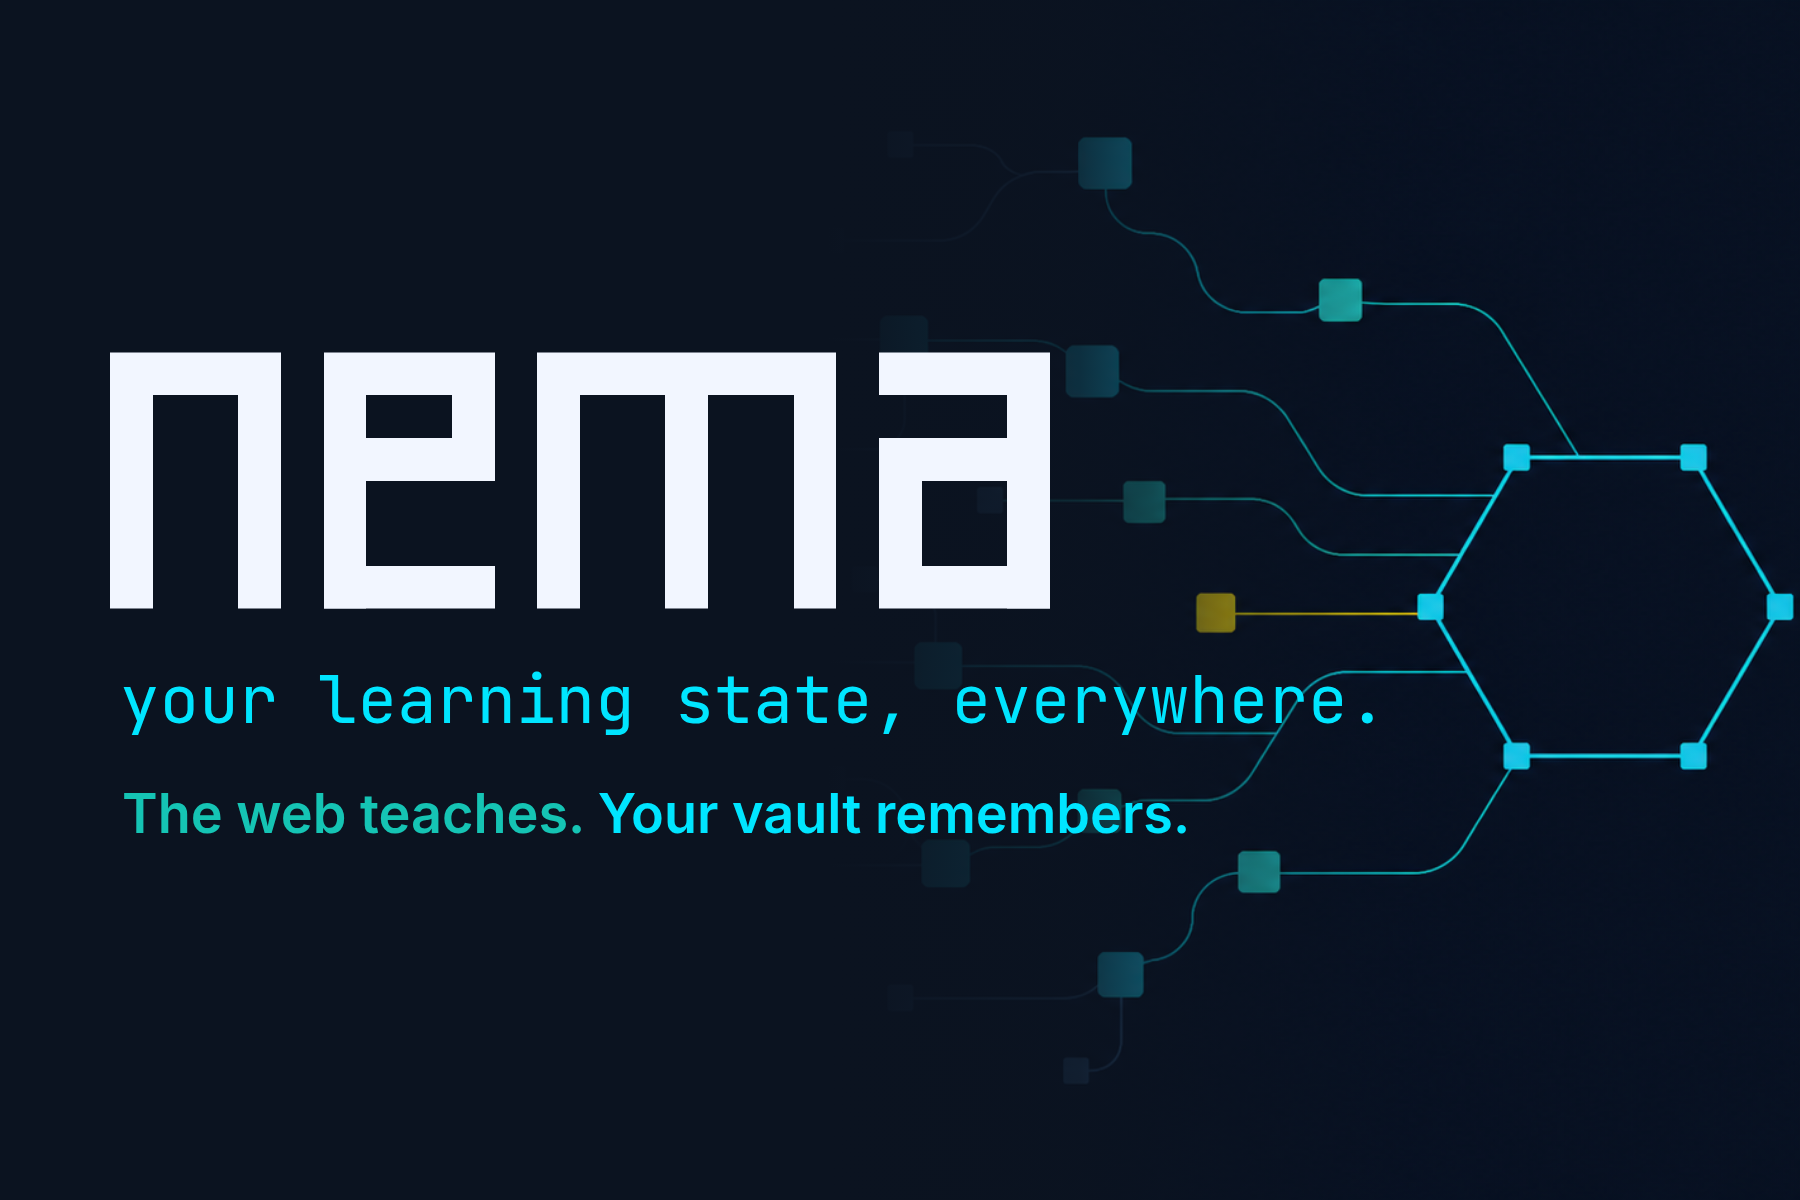
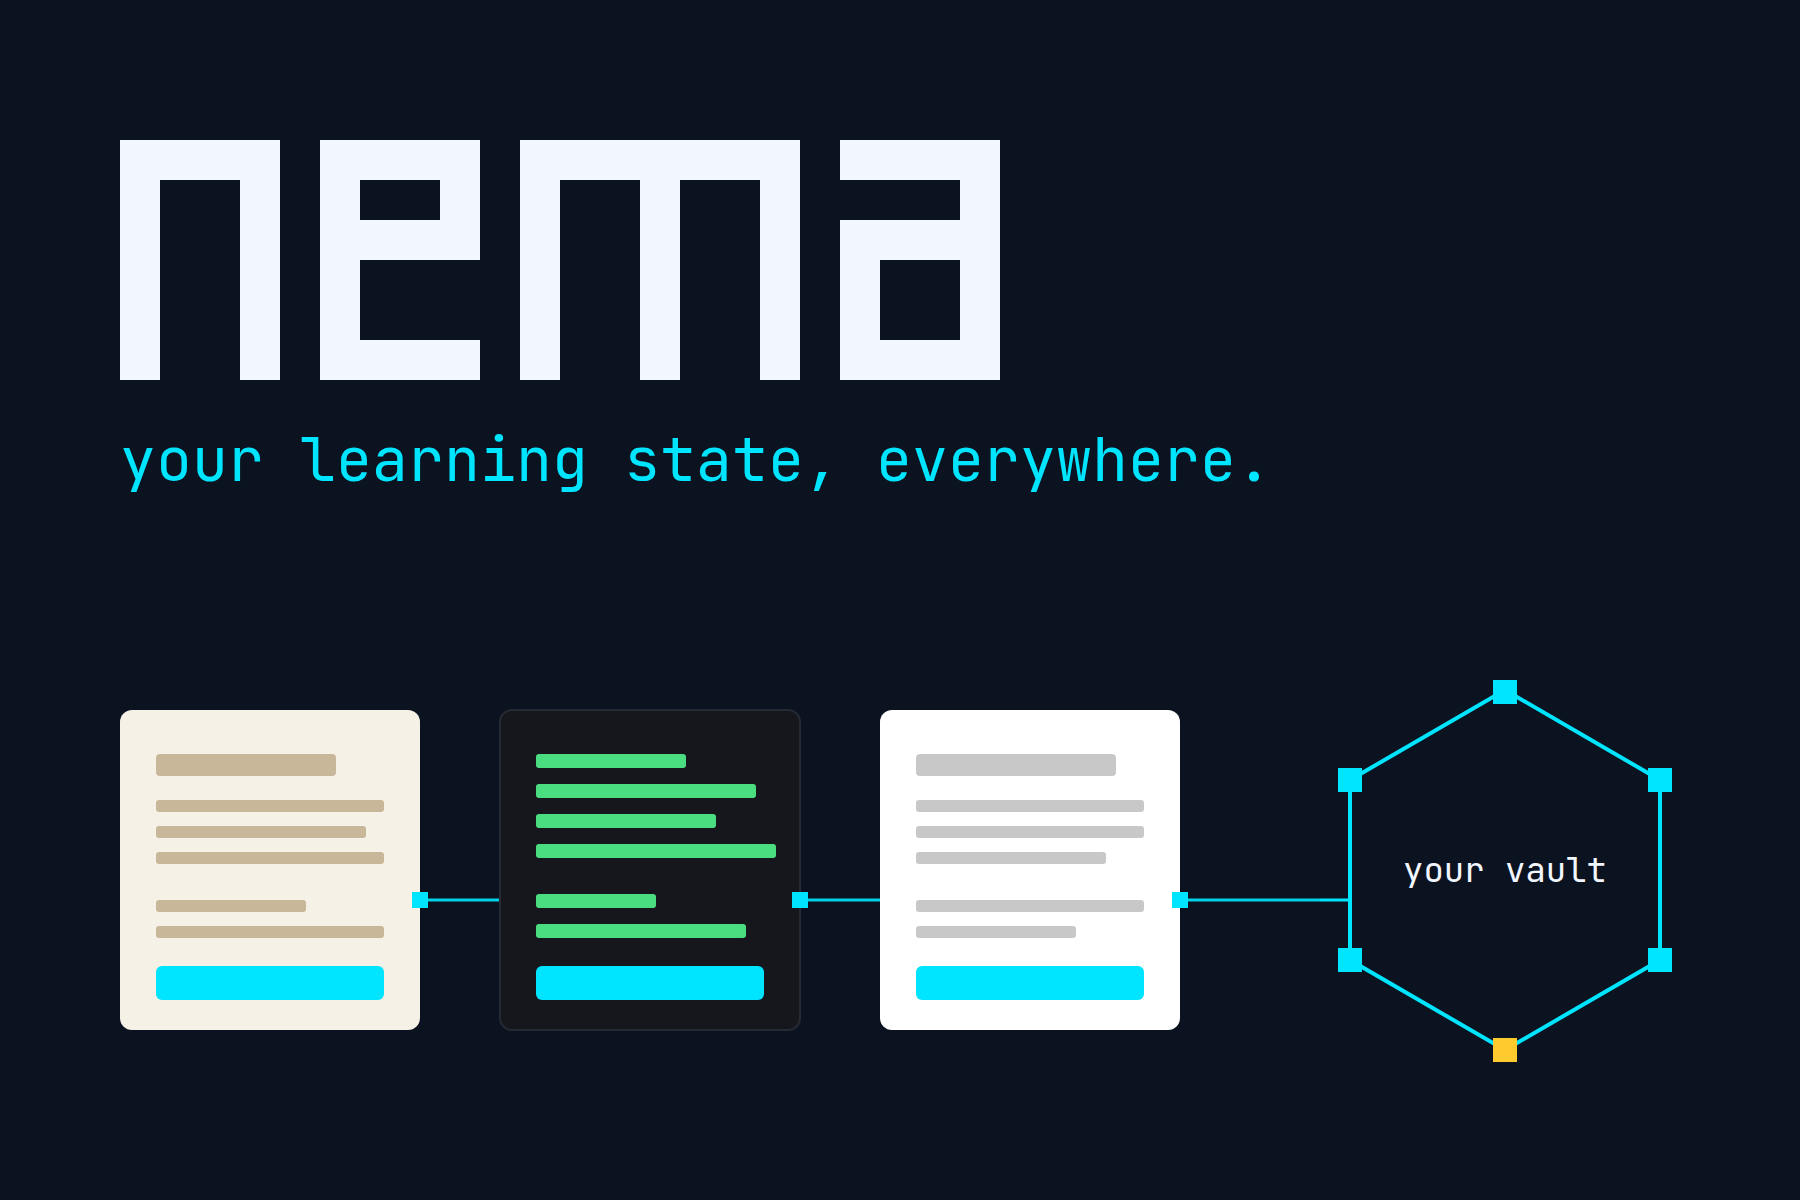
docs: press screenshots on the hub, thumbnail v2
Claude-Session: https://claude.ai/code/session_01AfeggrhBqzmN8guag9N5jj

diff --git a/docs/assets/devpost-thumbnail.html b/docs/assets/devpost-thumbnail.html
@@ -1,22 +1,38 @@
-<!doctype html>
-<meta charset="utf-8">
-<title>nema thumbnail</title>
-<link rel="stylesheet" href="http://localhost:8780/shared/brand/tokens.css">
+<!doctype html><meta charset="utf-8"><title>v2</title>
+<link rel="stylesheet" href="http://localhost:8780/shared/brand/tokens.css"><link rel="stylesheet" href="base.css">
 <style>
-  html, body { margin: 0; background: #0B1320; }
-  .card { position: relative; width: 1800px; height: 1200px; overflow: hidden; background: #0B1320 url("ART_URL") right -30px center / auto 100% no-repeat; font-family: var(--font-ui, Inter, sans-serif); color: #F2F6FF; }
-  .card::before { content: ""; position: absolute; inset: 0; background: linear-gradient(90deg, #0B1320 0%, #0B1320 46%, rgba(11,19,32,0.86) 60%, rgba(11,19,32,0.1) 78%); }
-  .copy { position: absolute; left: 110px; top: 50%; transform: translateY(-50%); width: 1200px; }
-  .word { width: 940px; color: #F2F6FF; }
-  .word svg { width: 100%; height: auto; display: block; }
-  .tag { margin: 54px 0 0 10px; font-family: var(--font-mono, "JetBrains Mono", monospace); font-size: 66px; letter-spacing: 0; color: #00E5FF; line-height: 1.15; white-space: nowrap; }
-  .sub { margin: 44px 0 0 12px; font-size: 54px; line-height: 1.2; font-weight: 600; color: #F2F6FF; }
-  .sub .t { color: #15C4B4; } .sub .v { color: #00E5FF; } .sub .a { color: #FFCA2E; }
+.copy { position: absolute; left: 120px; top: 140px; width: 1200px; }
+.word { width: 880px; }
+.tag { margin-top: 40px; font-size: 60px; }
+.diagram { position: absolute; left: 120px; right: 120px; bottom: 110px; height: 440px; }
 </style>
 <div class="card">
   <div class="copy">
     <div class="word">WORDMARK_SVG</div>
     <div class="tag">your learning state, everywhere.</div>
-    <div class="sub"><span class="t">The web teaches.</span> <span class="v">Your vault remembers.</span></div>
   </div>
+  <svg class="diagram" viewBox="0 0 1560 440" fill="none">
+    <!-- bus line behind the cards -->
+    <path d="M 150 250 H 1200" stroke="#00E5FF" stroke-width="3" opacity="0.9"/>
+    <path d="M 1200 250 L 1236 250" stroke="#00E5FF" stroke-width="3"/>
+    <!-- three sites -->
+    <g>
+      <rect x="0" y="60" width="300" height="320" rx="12" fill="#F6F1E7"/>
+      <rect x="380" y="60" width="300" height="320" rx="12" fill="#15171C" stroke="#262A33" stroke-width="2"/>
+      <rect x="760" y="60" width="300" height="320" rx="12" fill="#FFFFFF"/>
+    </g>
+    <g fill="#C9B79A"><rect x="36" y="104" width="180" height="22" rx="4"/><rect x="36" y="150" width="228" height="12" rx="3"/><rect x="36" y="176" width="210" height="12" rx="3"/><rect x="36" y="202" width="228" height="12" rx="3"/><rect x="36" y="250" width="150" height="12" rx="3"/><rect x="36" y="276" width="228" height="12" rx="3"/></g>
+    <g fill="#4ADE80"><rect x="416" y="104" width="150" height="14" rx="3"/><rect x="416" y="134" width="220" height="14" rx="3"/><rect x="416" y="164" width="180" height="14" rx="3"/><rect x="416" y="194" width="240" height="14" rx="3"/><rect x="416" y="244" width="120" height="14" rx="3"/><rect x="416" y="274" width="210" height="14" rx="3"/></g>
+    <g fill="#C8C8C8"><rect x="796" y="104" width="200" height="22" rx="4"/><rect x="796" y="150" width="228" height="12" rx="3"/><rect x="796" y="176" width="228" height="12" rx="3"/><rect x="796" y="202" width="190" height="12" rx="3"/><rect x="796" y="250" width="228" height="12" rx="3"/><rect x="796" y="276" width="160" height="12" rx="3"/></g>
+    <g fill="#00E5FF"><rect x="36" y="316" width="228" height="34" rx="6"/><rect x="416" y="316" width="228" height="34" rx="6"/><rect x="796" y="316" width="228" height="34" rx="6"/></g>
+    <!-- connector dots where the bus leaves each card -->
+    <g fill="#00E5FF"><rect x="292" y="242" width="16" height="16"/><rect x="672" y="242" width="16" height="16"/><rect x="1052" y="242" width="16" height="16"/></g>
+    <!-- the vault -->
+    <g transform="translate(1210,30)">
+      <polygon points="175,10 330,100 330,280 175,370 20,280 20,100" stroke="#00E5FF" stroke-width="4" fill="#0B1320"/>
+      <g fill="#00E5FF"><rect x="163" y="0" width="24" height="24"/><rect x="318" y="88" width="24" height="24"/><rect x="318" y="268" width="24" height="24"/><rect x="8" y="268" width="24" height="24"/><rect x="8" y="88" width="24" height="24"/></g>
+      <rect x="163" y="358" width="24" height="24" fill="#FFCA2E"/>
+      <text x="175" y="202" text-anchor="middle" font-family="JetBrains Mono, monospace" font-size="34" fill="#F2F6FF">your vault</text>
+    </g>
+  </svg>
 </div>
